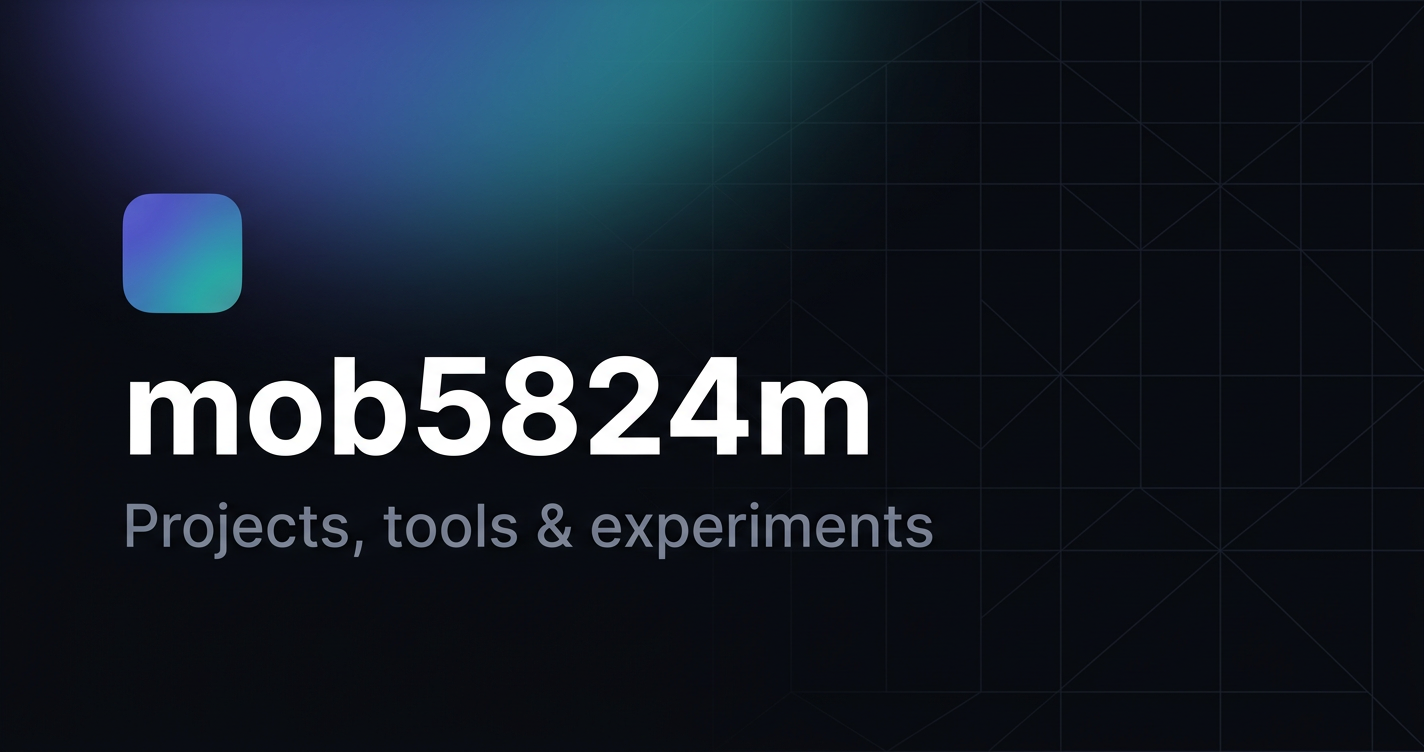
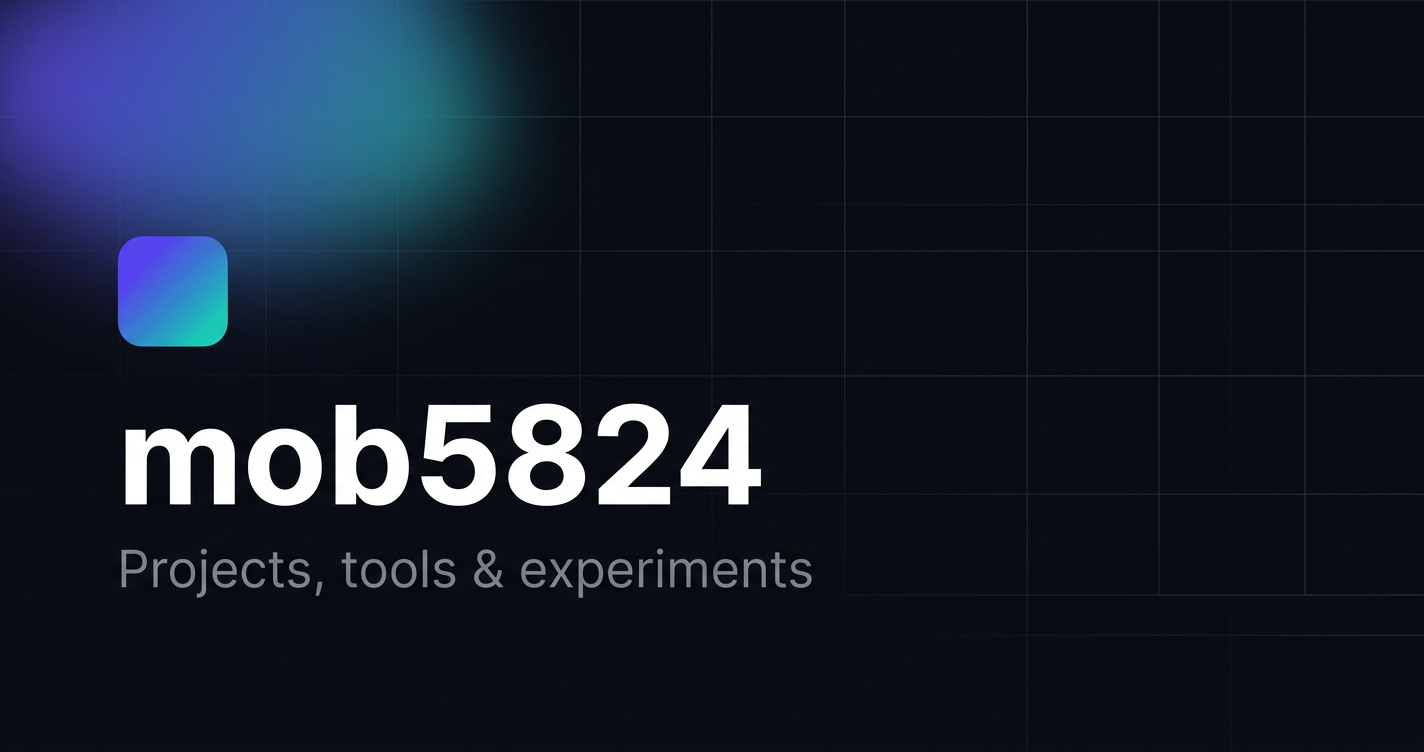
Populate site with real projects from GitHub repos
- Write content.js entries from the actual READMEs of classroomlib
  and RaspAP-WebOne rather than invented sample content
- Update page title, description and OG tags to match
- Regenerate social preview card with the real name

Changed region(s): [[0.0, 0.0, 0.618, 0.4588], [0.0618, 0.4588, 0.6798, 0.7952]]

diff --git a/data/content.js b/data/content.js
@@ -1,88 +1,124 @@
 /* ============================================================
-   CONTENT — this is the only file you need to edit.
-   Everything on the page is rendered from the two objects below.
+   CONTENT — the only file you need to edit.
 
-   Anything left as "" or [] is simply not rendered, so you can
-   fill this in a bit at a time without the layout breaking.
+   Project entries below were written from the READMEs of your
+   actual GitHub repos. Lines marked TODO are guesses about YOU
+   (not your code) — please correct them.
+
+   Anything left as "" or [] is not rendered, so you can trim
+   freely without breaking the layout.
    ============================================================ */
 
 window.SITE = {
   /* --- Identity ------------------------------------------- */
-  brand: "mob5824m",          // small logo text in the header
-  name: "Your Name",          // TODO: shown in the hero headline
-  role: "",                   // TODO: e.g. "Software developer" — subtitle under the name
+  brand: "mob5824",
+  name: "mob5824",
+  role: "",                    // TODO: e.g. "Teacher who codes" / "Student developer"
 
-  availability: "",           // e.g. "Open to new projects" — "" hides the pill
+  availability: "",            // e.g. "Open to collaboration" — "" hides the pill
 
-  // Rotating words in the hero. Use one entry for no animation, [] to disable.
-  typewriter: [],             // e.g. ["web apps.", "small tools."]
+  // Rotating words in the hero. One entry = no animation, [] = off.
+  typewriter: ["tools for classrooms.", "things for Raspberry Pi.", "software that gets used."],
 
-  tagline: "",                // TODO: one or two sentences under the headline
+  // TODO: rewrite in your own voice.
+  tagline:
+    "I build practical software — a classroom library system my students actually use, " +
+    "and a one-command image builder for Raspberry Pi hotspots.",
 
   /* --- Hero stats — [] hides the row ----------------------- */
   stats: [
-    // { value: "12", label: "Projects shipped" },
+    { value: "2",       label: "Public projects" },
+    { value: "Vanilla", label: "No frameworks" },
+    { value: "MIT",     label: "Open source" }
   ],
 
   /* --- About ----------------------------------------------- */
+  // TODO: this is a reasonable guess from your repos — make it yours.
   about: [
-    // TODO: one string per paragraph.
-    // "First paragraph about you.",
+    "I build software to solve problems in front of me. Both projects here started " +
+    "as something I needed and couldn't buy off the shelf.",
+    "I like plain HTML, CSS and JavaScript with no build step, shell scripts that are " +
+    "verbose about what they're doing, and tools that a non-technical person can actually run."
   ],
 
   skills: [
-    // TODO: "JavaScript", "Python", "Figma", ...
+    "JavaScript", "Node.js", "HTML", "CSS", "Bash",
+    "Raspberry Pi", "Debian", "Linux", "Git"
   ],
 
   // "Currently" list in the About sidebar — [] hides the card.
   timeline: [
-    // { when: "Now",  what: "What you're working on" },
+    { when: "Now",  what: "Building the Room 204 classroom library" },
+    { when: "2026", what: "Raspberry Pi image builder for RaspAP + WebOne" }
   ],
 
   /* --- Contact --------------------------------------------- */
   ctaHeading: "Get in touch",
-  ctaText: "",                // TODO: one line inviting people to reach out
+  ctaText: "Questions about a project, or want to use one? Happy to hear from you.",
 
   links: [
-    // TODO: add your real links. `primary: true` styles the main button.
-    // { label: "Email",  href: "mailto:you@example.com", primary: true },
-    // { label: "GitHub", href: "https://github.com/mob5824m-wq" },
+    { label: "GitHub", href: "https://github.com/mob5824m-wq", primary: true }
+    // TODO: add an email if you want to be reachable:
+    // { label: "Email", href: "mailto:you@example.com" }
   ]
 };
 
 /* ============================================================
    PROJECTS
-
-   Copy the template below for each project. Only `title` is
-   required — every other field degrades gracefully if omitted.
-
-   {
-     title:       "Project name",              // required
-     blurb:       "One line shown on the card.",
-     description: "Longer text shown in the popup.",
-     tags:        ["Web app", "Python"],       // these become the filter buttons
-     year:        "2026",
-     status:      "Live",                      // "Live" | "In progress" | "Archived"
-     featured:    false,                       // true = card spans two columns
-     emoji:       "🚀",                        // fallback when there's no image
-     image:       "assets/img/project.png",    // optional thumbnail
-     highlights:  ["Bullet in the popup"],
-     links:       [{ label: "Source", href: "https://..." }]
-   }
-
-   While this array is empty the page shows a friendly placeholder
-   card instead, so the site still looks intentional.
+   Only `title` is required; every other field is optional.
    ============================================================ */
 
 window.PROJECTS = [
-  // {
-  //   title: "My first project",
-  //   blurb: "A one-line description.",
-  //   description: "A longer description shown when the card is clicked.",
-  //   tags: ["Web app"],
-  //   year: "2026",
-  //   status: "Live",
-  //   emoji: "🚀",
-  //   links: [{ label: "Source", href: "https://github.com/mob5824m-wq" }]
-  // },
+  {
+    title: "Room 204 Classroom Library",
+    blurb:
+      "A full library system for a Grade 7–8 classroom — checkout, holds, barcodes " +
+      "and reading logs, in vanilla JS.",
+    description:
+      "A complete classroom library that students run themselves. Books are checked out, " +
+      "returned, renewed and placed on hold without a librarian. It's built in plain HTML, " +
+      "CSS and vanilla JavaScript with no framework and no build step, backed by a small " +
+      "Node server that keeps one shared library so every tablet and laptop sees the same data.",
+    tags: ["Web app", "JavaScript", "Node.js", "Education"],
+    year: "2026",
+    status: "In progress",
+    featured: true,
+    emoji: "📚",
+    highlights: [
+      "Scannable EAN-13 barcodes drawn on canvas, with camera, keyboard and USB-scanner input",
+      "Loan lengths vary by book type and shorten automatically for popular titles",
+      "Fair hold queue — the front of the line claims the next returned copy",
+      "Covers and descriptions pulled automatically from Open Library",
+      "Admin passwords hashed, student passwords encrypted at rest, 6-hour auto sign-out",
+      "Dark mode, larger text and a dyslexia-friendly font toggle"
+    ],
+    links: [
+      { label: "Source", href: "https://github.com/mob5824m-wq/classroomlib" }
+    ]
+  },
+  {
+    title: "RaspAP + WebOne image builder",
+    blurb:
+      "One Debian script that builds a flashable 64-bit Raspberry Pi image: " +
+      "a Wi-Fi hotspot with a retro-web proxy baked in.",
+    description:
+      "Downloads the official RaspAP Lite image, grows it, customises it via loop mount and " +
+      "qemu, and writes a single .img you flash with Raspberry Pi Imager. The result is a " +
+      "Raspberry Pi hotspot running RaspAP with the WebOne proxy already configured — useful " +
+      "for getting vintage machines onto the modern web.",
+    tags: ["CLI", "Bash", "Raspberry Pi", "Linux"],
+    year: "2026",
+    status: "In progress",
+    emoji: "📡",
+    highlights: [
+      "Builds an arm64 image from an x86_64 host using qemu and binfmt",
+      "Graphical window or pure CLI — the GUI escalates to sudo for you",
+      "Checkpointed and resumable: rerun the same command after a failed build",
+      "Update mode remounts an existing image and checks GitHub for newer releases",
+      "Bakes in hostname, user, SSID and an optional SSH public key"
+    ],
+    links: [
+      { label: "Source", href: "https://github.com/mob5824m-wq/RaspAP-WebOne" }
+    ]
+  }
 ];

diff --git a/index.html b/index.html
@@ -3,14 +3,14 @@
 <head>
 <meta charset="utf-8" />
 <meta name="viewport" content="width=device-width, initial-scale=1" />
-<title>Projects</title>
-<meta name="description" content="A portfolio of projects." />
+<title>mob5824 — Projects</title>
+<meta name="description" content="Projects by mob5824 — a classroom library system and a Raspberry Pi image builder." />
 <meta name="color-scheme" content="dark light" />
 
 <!-- Social preview. Replace assets/img/og.png with your own 1200x630 image. -->
 <meta property="og:type" content="website" />
-<meta property="og:title" content="Projects" />
-<meta property="og:description" content="A portfolio of projects." />
+<meta property="og:title" content="mob5824 — Projects" />
+<meta property="og:description" content="Projects by mob5824 — a classroom library system and a Raspberry Pi image builder." />
 <meta property="og:image" content="assets/img/og.png" />
 <meta name="twitter:card" content="summary_large_image" />
 
